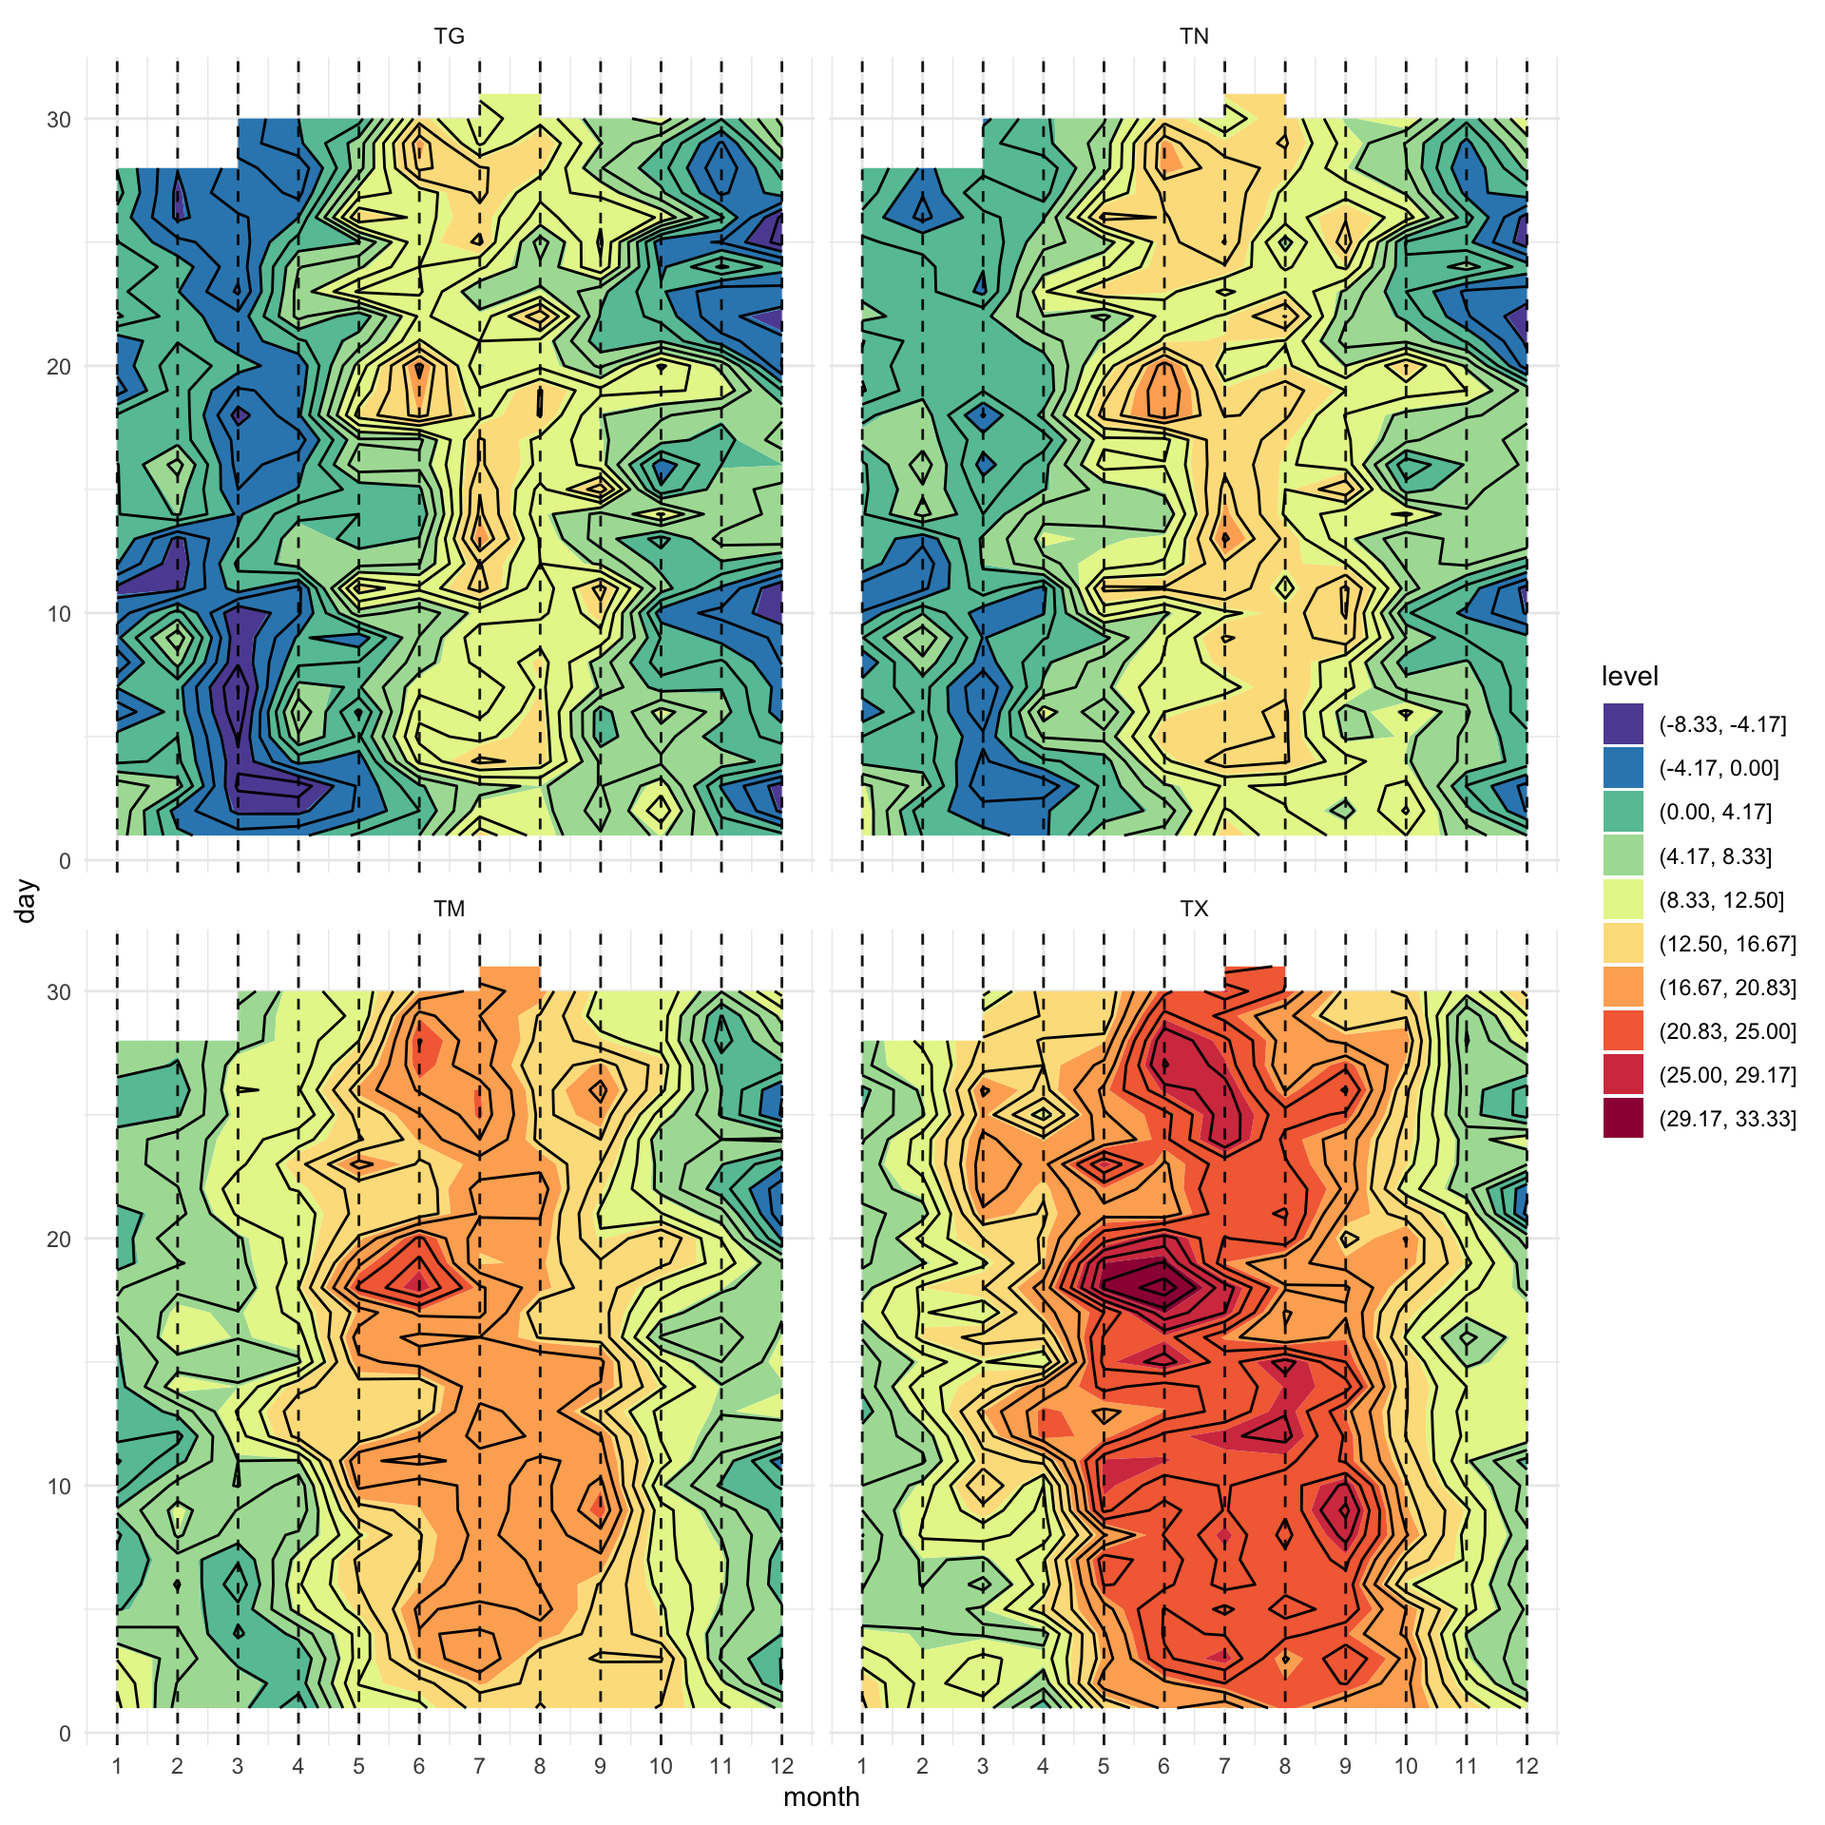
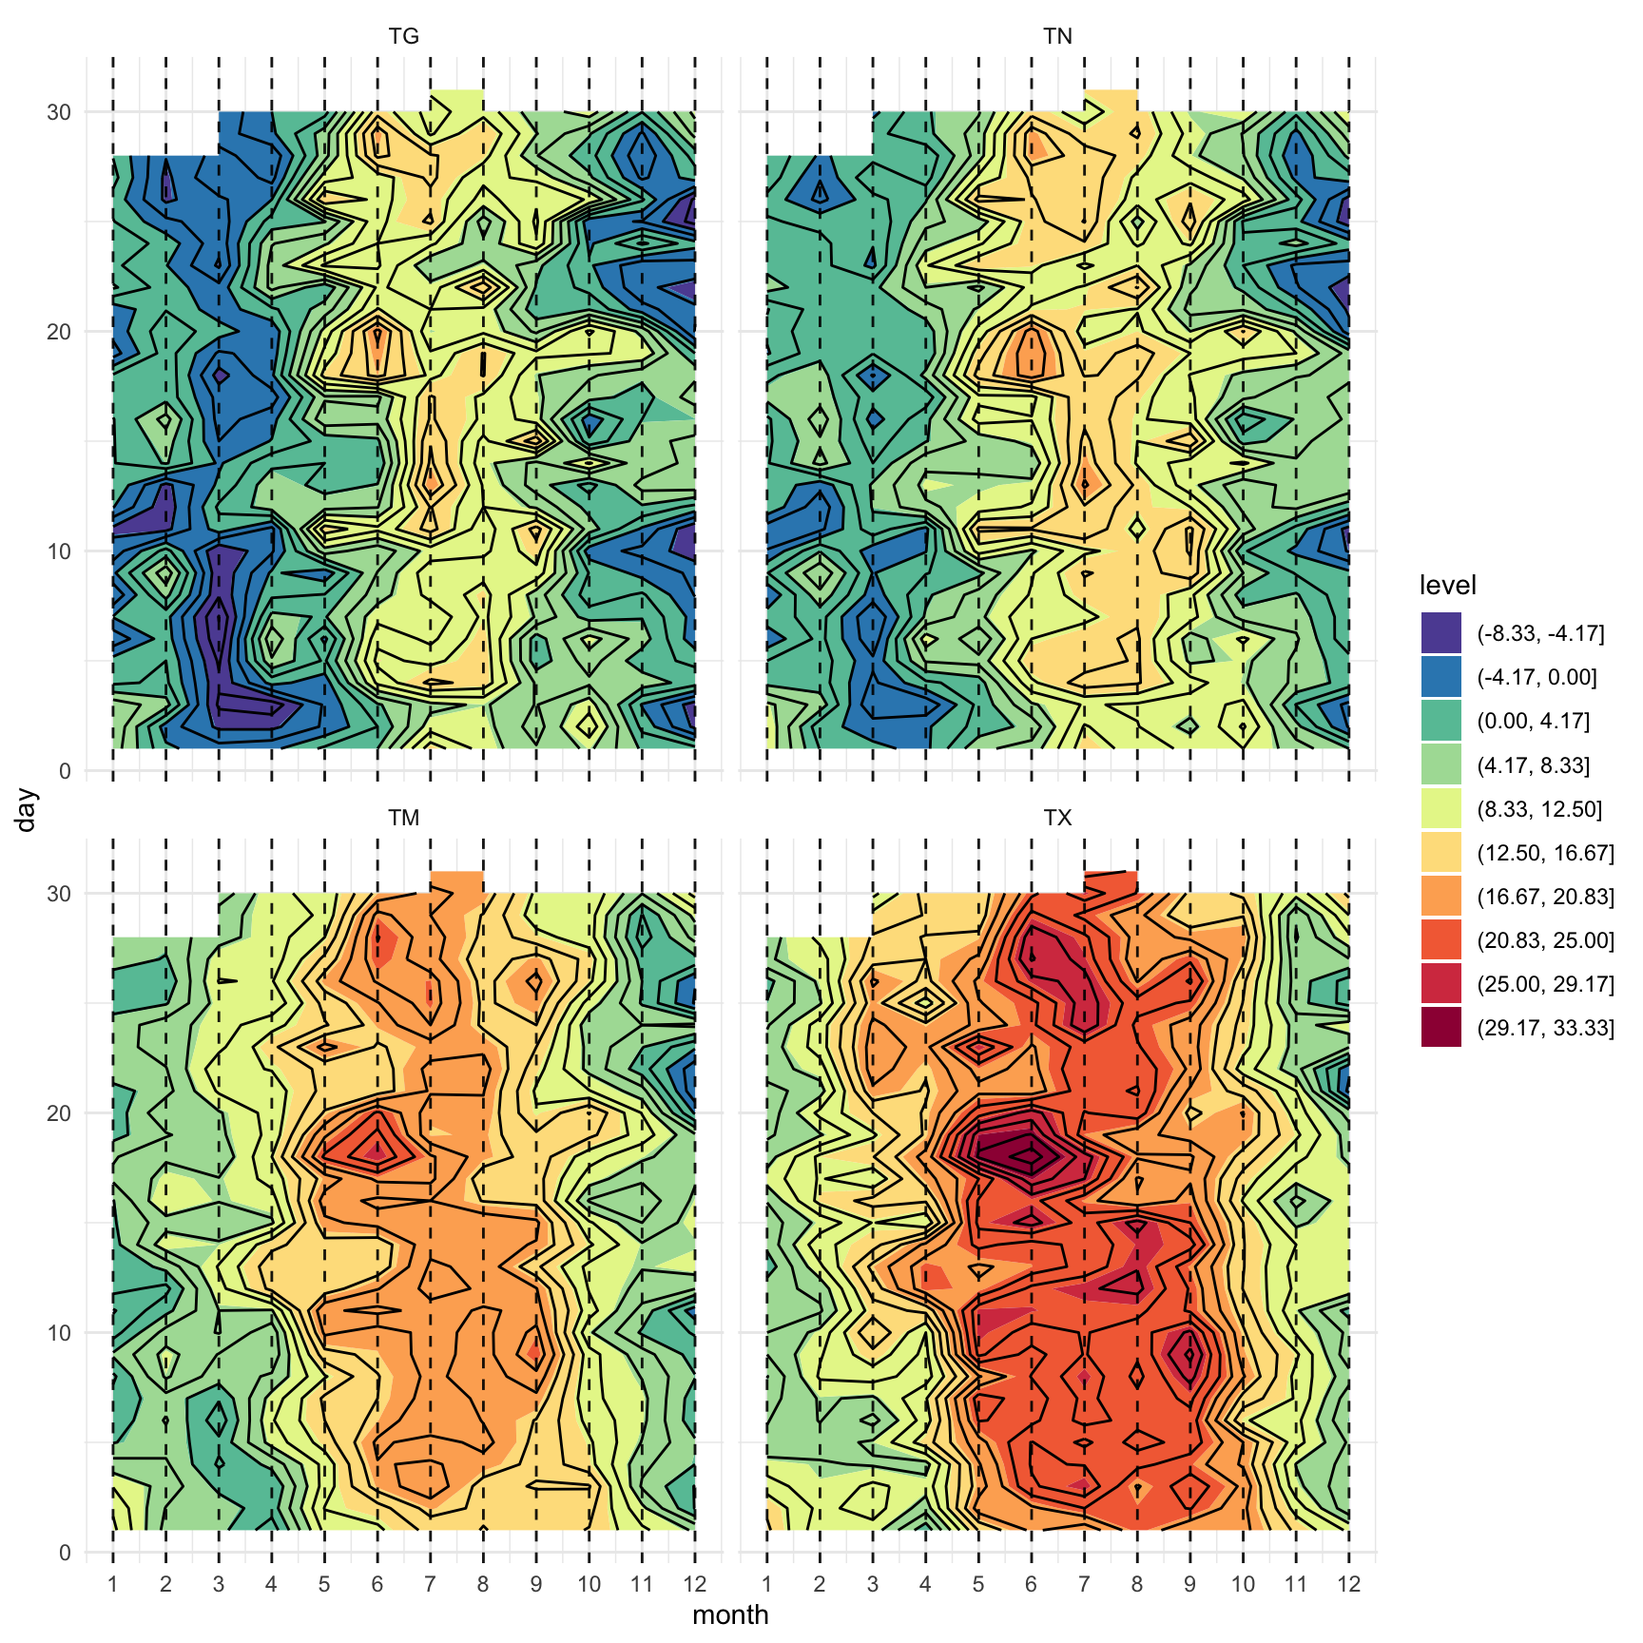
added links

diff --git a/docs/app-example-analysis.html b/docs/app-example-analysis.html
@@ -538,7 +538,7 @@ code span.wa { color: #60a0b0; font-weight: bold; font-style: italic; } /* Warni
 </header><div class="cell">
 
 </div>
-<p><em>Version vom October 31, 2022 um 18:34:34</em></p>
+<p><em>Version vom October 31, 2022 um 18:43:56</em></p>
 <section id="genutzte-r-pakete-für-das-kapitel" class="level2" data-number="A.1"><h2 data-number="A.1" class="anchored" data-anchor-id="genutzte-r-pakete-für-das-kapitel">
 <span class="header-section-number">A.1</span> Genutzte R Pakete für das Kapitel</h2>
 <p>Wir wollen folgende R Pakete in diesem Kapitel nutzen.</p>
@@ -555,10 +555,10 @@ code span.wa { color: #60a0b0; font-weight: bold; font-style: italic; } /* Warni
 <p>Am Ende des Kapitels findest du nochmal den gesamten R Code in einem Rutsch zum selber durchführen oder aber kopieren.</p>
 </section><section id="isoplethendiagramm-für-norddeutschland" class="level2 page-columns page-full" data-number="A.2"><h2 data-number="A.2" class="anchored" data-anchor-id="isoplethendiagramm-für-norddeutschland">
 <span class="header-section-number">A.2</span> Isoplethendiagramm für Norddeutschland</h2>
-<p>https://geocompr.robinlovelace.net/index.html</p>
-<p>https://www.dwd-shop.de/index.php/default/kostenfreie-informationen.html</p>
-<p>https://www.dwd.de/DE/leistungen/klimadatendeutschland/beschreibung_tagesmonatswerte.html</p>
-<p>https://www.dwd.de/DE/leistungen/klimadatendeutschland/klimadatendeutschland.html#buehneTop</p>
+<p><a href="https://geocompr.robinlovelace.net/index.html">Geocomputation with R</a></p>
+<p><a href="https://www.dwd-shop.de/index.php/default/kostenfreie-informationen.html">Entgeltfreie Informationen - DWD-Website</a></p>
+<p>Hier findest du die <a href="https://www.dwd.de/DE/leistungen/klimadatendeutschland/beschreibung_tagesmonatswerte.html">Informationen zu den Tages- und Monatswerten</a></p>
+<p><a href="https://www.dwd.de/DE/leistungen/klimadatendeutschland/klimadatendeutschland.html#buehneTop">Klimadaten für Deutschland</a></p>
 <div class="cell">
 <div class="sourceCode" id="cb2"><pre class="downlit sourceCode r code-with-copy"><code class="sourceCode R"><span><span class="va">weather_tbl</span> <span class="op">&lt;-</span> <span class="fu">read_table</span><span class="op">(</span><span class="st">"data/day_values_osnabrueck.txt"</span><span class="op">)</span> <span class="op">%&gt;%</span> </span>
 <span>  <span class="fu">mutate</span><span class="op">(</span>JJJJMMDD <span class="op">=</span> <span class="fu"><a href="https://rdrr.io/r/base/as.Date.html">as.Date</a></span><span class="op">(</span><span class="fu"><a href="https://rdrr.io/r/base/character.html">as.character</a></span><span class="op">(</span><span class="va">JJJJMMDD</span><span class="op">)</span>, <span class="st">"%Y%m%d"</span><span class="op">)</span>,</span>
@@ -581,8 +581,8 @@ code span.wa { color: #60a0b0; font-weight: bold; font-style: italic; } /* Warni
 <span>  <span class="fu">geom_vline</span><span class="op">(</span>xintercept <span class="op">=</span> <span class="fl">1</span><span class="op">:</span><span class="fl">12</span>, alpha <span class="op">=</span> <span class="fl">0.9</span>, linetype <span class="op">=</span> <span class="fl">2</span><span class="op">)</span></span></code><button title="In die Zwischenablage kopieren" class="code-copy-button"><i class="bi"></i></button></pre></div>
 <div class="cell-output-display column-page">
 <div id="fig-weather" class="quarto-figure quarto-figure-center anchored">
-<figure class="figure"><p><img src="app-example-analysis_files/figure-html/fig-weather-1.png" class="img-fluid figure-img" width="960"></p>
-<p></p><figcaption aria-hidden="true" class="figure-caption">Abbildung A.1— Densityplot der Verteilungen vor und nach der Imputation.</figcaption><p></p>
+<figure class="figure"><p><img src="app-example-analysis_files/figure-html/fig-weather-1.png" class="img-fluid figure-img" width="864"></p>
+<p></p><figcaption aria-hidden="true" class="figure-caption">Abbildung A.1— Konturplot der Minimum der Temperatur in 5 cm über dem Erdboden (TG), Minimum der Temperatur in 2 m über dem Erdboden (TN), Mittel der Temperatur in 2 m über dem Erdboden (TM) und Maximum der Temperatur in 2 m über dem Erdboden (TX).</figcaption><p></p>
 </figure>
 </div>
 </div>
@@ -666,217 +666,217 @@ X-squared = 13.8689, df = 3, p-value = 0.0030892</code></pre>
 <td style="text-align: center;">low</td>
 <td style="text-align: center;">I</td>
 <td style="text-align: center;">1</td>
-<td style="text-align: center;">13.54</td>
+<td style="text-align: center;">14.68</td>
 </tr>
 <tr class="even">
 <td style="text-align: center;">low</td>
 <td style="text-align: center;">I</td>
 <td style="text-align: center;">2</td>
-<td style="text-align: center;">14.58</td>
+<td style="text-align: center;">12.00</td>
 </tr>
 <tr class="odd">
 <td style="text-align: center;">low</td>
 <td style="text-align: center;">I</td>
 <td style="text-align: center;">3</td>
-<td style="text-align: center;">16.67</td>
+<td style="text-align: center;">15.33</td>
 </tr>
 <tr class="even">
 <td style="text-align: center;">low</td>
 <td style="text-align: center;">I</td>
 <td style="text-align: center;">4</td>
-<td style="text-align: center;">12.10</td>
+<td style="text-align: center;">10.94</td>
 </tr>
 <tr class="odd">
 <td style="text-align: center;">low</td>
 <td style="text-align: center;">II</td>
 <td style="text-align: center;">1</td>
-<td style="text-align: center;">11.04</td>
+<td style="text-align: center;">13.07</td>
 </tr>
 <tr class="even">
 <td style="text-align: center;">low</td>
 <td style="text-align: center;">II</td>
 <td style="text-align: center;">2</td>
-<td style="text-align: center;">12.24</td>
-</tr>
-<tr class="odd">
-<td style="text-align: center;">low</td>
-<td style="text-align: center;">II</td>
-<td style="text-align: center;">3</td>
-<td style="text-align: center;">11.78</td>
-</tr>
-<tr class="even">
-<td style="text-align: center;">low</td>
-<td style="text-align: center;">II</td>
-<td style="text-align: center;">4</td>
-<td style="text-align: center;">13.72</td>
-</tr>
-<tr class="odd">
-<td style="text-align: center;">low</td>
-<td style="text-align: center;">III</td>
-<td style="text-align: center;">1</td>
-<td style="text-align: center;">19.87</td>
-</tr>
-<tr class="even">
-<td style="text-align: center;">low</td>
-<td style="text-align: center;">III</td>
-<td style="text-align: center;">2</td>
-<td style="text-align: center;">14.63</td>
-</tr>
-<tr class="odd">
-<td style="text-align: center;">low</td>
-<td style="text-align: center;">III</td>
-<td style="text-align: center;">3</td>
-<td style="text-align: center;">14.18</td>
-</tr>
-<tr class="even">
-<td style="text-align: center;">low</td>
-<td style="text-align: center;">III</td>
-<td style="text-align: center;">4</td>
-<td style="text-align: center;">13.33</td>
-</tr>
-<tr class="odd">
-<td style="text-align: center;">mid</td>
-<td style="text-align: center;">I</td>
-<td style="text-align: center;">1</td>
-<td style="text-align: center;">13.21</td>
-</tr>
-<tr class="even">
-<td style="text-align: center;">mid</td>
-<td style="text-align: center;">I</td>
-<td style="text-align: center;">2</td>
-<td style="text-align: center;">13.74</td>
-</tr>
-<tr class="odd">
-<td style="text-align: center;">mid</td>
-<td style="text-align: center;">I</td>
-<td style="text-align: center;">3</td>
-<td style="text-align: center;">14.49</td>
-</tr>
-<tr class="even">
-<td style="text-align: center;">mid</td>
-<td style="text-align: center;">I</td>
-<td style="text-align: center;">4</td>
 <td style="text-align: center;">17.50</td>
 </tr>
 <tr class="odd">
+<td style="text-align: center;">low</td>
+<td style="text-align: center;">II</td>
+<td style="text-align: center;">3</td>
+<td style="text-align: center;">13.43</td>
+</tr>
+<tr class="even">
+<td style="text-align: center;">low</td>
+<td style="text-align: center;">II</td>
+<td style="text-align: center;">4</td>
+<td style="text-align: center;">11.71</td>
+</tr>
+<tr class="odd">
+<td style="text-align: center;">low</td>
+<td style="text-align: center;">III</td>
+<td style="text-align: center;">1</td>
+<td style="text-align: center;">11.77</td>
+</tr>
+<tr class="even">
+<td style="text-align: center;">low</td>
+<td style="text-align: center;">III</td>
+<td style="text-align: center;">2</td>
+<td style="text-align: center;">16.63</td>
+</tr>
+<tr class="odd">
+<td style="text-align: center;">low</td>
+<td style="text-align: center;">III</td>
+<td style="text-align: center;">3</td>
+<td style="text-align: center;">13.94</td>
+</tr>
+<tr class="even">
+<td style="text-align: center;">low</td>
+<td style="text-align: center;">III</td>
+<td style="text-align: center;">4</td>
+<td style="text-align: center;">13.73</td>
+</tr>
+<tr class="odd">
+<td style="text-align: center;">mid</td>
+<td style="text-align: center;">I</td>
+<td style="text-align: center;">1</td>
+<td style="text-align: center;">14.78</td>
+</tr>
+<tr class="even">
+<td style="text-align: center;">mid</td>
+<td style="text-align: center;">I</td>
+<td style="text-align: center;">2</td>
+<td style="text-align: center;">15.48</td>
+</tr>
+<tr class="odd">
+<td style="text-align: center;">mid</td>
+<td style="text-align: center;">I</td>
+<td style="text-align: center;">3</td>
+<td style="text-align: center;">15.35</td>
+</tr>
+<tr class="even">
+<td style="text-align: center;">mid</td>
+<td style="text-align: center;">I</td>
+<td style="text-align: center;">4</td>
+<td style="text-align: center;">15.99</td>
+</tr>
+<tr class="odd">
 <td style="text-align: center;">mid</td>
 <td style="text-align: center;">II</td>
 <td style="text-align: center;">1</td>
-<td style="text-align: center;">14.57</td>
+<td style="text-align: center;">13.36</td>
 </tr>
 <tr class="even">
 <td style="text-align: center;">mid</td>
 <td style="text-align: center;">II</td>
 <td style="text-align: center;">2</td>
-<td style="text-align: center;">15.45</td>
+<td style="text-align: center;">15.34</td>
 </tr>
 <tr class="odd">
 <td style="text-align: center;">mid</td>
 <td style="text-align: center;">II</td>
 <td style="text-align: center;">3</td>
-<td style="text-align: center;">15.60</td>
+<td style="text-align: center;">17.41</td>
 </tr>
 <tr class="even">
 <td style="text-align: center;">mid</td>
 <td style="text-align: center;">II</td>
 <td style="text-align: center;">4</td>
-<td style="text-align: center;">16.11</td>
+<td style="text-align: center;">14.36</td>
 </tr>
 <tr class="odd">
 <td style="text-align: center;">mid</td>
 <td style="text-align: center;">III</td>
 <td style="text-align: center;">1</td>
-<td style="text-align: center;">20.15</td>
+<td style="text-align: center;">17.39</td>
 </tr>
 <tr class="even">
 <td style="text-align: center;">mid</td>
 <td style="text-align: center;">III</td>
 <td style="text-align: center;">2</td>
-<td style="text-align: center;">16.99</td>
+<td style="text-align: center;">19.90</td>
 </tr>
 <tr class="odd">
 <td style="text-align: center;">mid</td>
 <td style="text-align: center;">III</td>
 <td style="text-align: center;">3</td>
-<td style="text-align: center;">17.40</td>
+<td style="text-align: center;">18.07</td>
 </tr>
 <tr class="even">
 <td style="text-align: center;">mid</td>
 <td style="text-align: center;">III</td>
 <td style="text-align: center;">4</td>
-<td style="text-align: center;">17.73</td>
+<td style="text-align: center;">19.31</td>
 </tr>
 <tr class="odd">
 <td style="text-align: center;">high</td>
 <td style="text-align: center;">I</td>
 <td style="text-align: center;">1</td>
-<td style="text-align: center;">19.20</td>
+<td style="text-align: center;">17.35</td>
 </tr>
 <tr class="even">
 <td style="text-align: center;">high</td>
 <td style="text-align: center;">I</td>
 <td style="text-align: center;">2</td>
-<td style="text-align: center;">17.78</td>
+<td style="text-align: center;">17.47</td>
 </tr>
 <tr class="odd">
 <td style="text-align: center;">high</td>
 <td style="text-align: center;">I</td>
 <td style="text-align: center;">3</td>
-<td style="text-align: center;">16.46</td>
+<td style="text-align: center;">18.38</td>
 </tr>
 <tr class="even">
 <td style="text-align: center;">high</td>
 <td style="text-align: center;">I</td>
 <td style="text-align: center;">4</td>
-<td style="text-align: center;">16.13</td>
+<td style="text-align: center;">18.46</td>
 </tr>
 <tr class="odd">
 <td style="text-align: center;">high</td>
 <td style="text-align: center;">II</td>
 <td style="text-align: center;">1</td>
-<td style="text-align: center;">19.97</td>
+<td style="text-align: center;">17.80</td>
 </tr>
 <tr class="even">
 <td style="text-align: center;">high</td>
 <td style="text-align: center;">II</td>
 <td style="text-align: center;">2</td>
-<td style="text-align: center;">17.65</td>
+<td style="text-align: center;">16.92</td>
 </tr>
 <tr class="odd">
 <td style="text-align: center;">high</td>
 <td style="text-align: center;">II</td>
 <td style="text-align: center;">3</td>
-<td style="text-align: center;">20.46</td>
+<td style="text-align: center;">20.58</td>
 </tr>
 <tr class="even">
 <td style="text-align: center;">high</td>
 <td style="text-align: center;">II</td>
 <td style="text-align: center;">4</td>
-<td style="text-align: center;">15.13</td>
+<td style="text-align: center;">19.56</td>
 </tr>
 <tr class="odd">
 <td style="text-align: center;">high</td>
 <td style="text-align: center;">III</td>
 <td style="text-align: center;">1</td>
-<td style="text-align: center;">17.75</td>
+<td style="text-align: center;">20.74</td>
 </tr>
 <tr class="even">
 <td style="text-align: center;">high</td>
 <td style="text-align: center;">III</td>
 <td style="text-align: center;">2</td>
-<td style="text-align: center;">15.59</td>
+<td style="text-align: center;">17.31</td>
 </tr>
 <tr class="odd">
 <td style="text-align: center;">high</td>
 <td style="text-align: center;">III</td>
 <td style="text-align: center;">3</td>
-<td style="text-align: center;">20.11</td>
+<td style="text-align: center;">18.57</td>
 </tr>
 <tr class="even">
 <td style="text-align: center;">high</td>
 <td style="text-align: center;">III</td>
 <td style="text-align: center;">4</td>
-<td style="text-align: center;">18.52</td>
+<td style="text-align: center;">21.22</td>
 </tr>
 </tbody>
 </table>
@@ -920,10 +920,10 @@ X-squared = 13.8689, df = 3, p-value = 0.0030892</code></pre>
 <pre><code>Analysis of Variance Table
 
 Response: rsp
-          Df   Sum Sq Mean Sq  F value    Pr(&gt;F)    
-trt        2  92.4877 46.2439 12.31854 0.0001156 ***
-block      2  26.2654 13.1327  3.49831 0.0426637 *  
-Residuals 31 116.3742  3.7540                       
+          Df   Sum Sq Mean Sq F value       Pr(&gt;F)    
+trt        2 148.3141 74.1571 25.1998 0.0000003173 ***
+block      2  23.1254 11.5627  3.9292     0.030136 *  
+Residuals 31  91.2257  2.9428                         
 ---
 Signif. codes:  0 '***' 0.001 '**' 0.01 '*' 0.05 '.' 0.1 ' ' 1</code></pre>
 </div>
@@ -941,9 +941,9 @@ Signif. codes:  0 '***' 0.001 '**' 0.01 '*' 0.05 '.' 0.1 ' ' 1</code></pre>
 <pre><code># A tibble: 3 × 3
   contrast   estimate adj.p.value
   &lt;chr&gt;         &lt;dbl&gt;       &lt;dbl&gt;
-1 mid - low      2.11      0.0318
-2 high - low     3.92      0.0001
-3 high - mid     1.82      0.0713</code></pre>
+1 mid - low      2.67      0.0017
+2 high - low     4.97      0     
+3 high - mid     2.30      0.007 </code></pre>
 </div>
 </div>
 </section><section id="gruppenvergleich-mit-der-emmeans-paket" class="level3" data-number="A.4.5"><h3 data-number="A.4.5" class="anchored" data-anchor-id="gruppenvergleich-mit-der-emmeans-paket">
@@ -960,9 +960,9 @@ Signif. codes:  0 '***' 0.001 '**' 0.01 '*' 0.05 '.' 0.1 ' ' 1</code></pre>
 <pre><code># A tibble: 3 × 3
   contrast   estimate adj.p.value
   &lt;chr&gt;         &lt;dbl&gt;       &lt;dbl&gt;
-1 low - mid     -2.11      0.0318
-2 low - high    -3.92      0.0001
-3 mid - high    -1.82      0.0712</code></pre>
+1 low - mid     -2.67      0.0017
+2 low - high    -4.97      0     
+3 mid - high    -2.30      0.007 </code></pre>
 </div>
 </div>
 </section></section><section id="auswertung-von-boniturnoten" class="level2" data-number="A.5"><h2 data-number="A.5" class="anchored" data-anchor-id="auswertung-von-boniturnoten">
